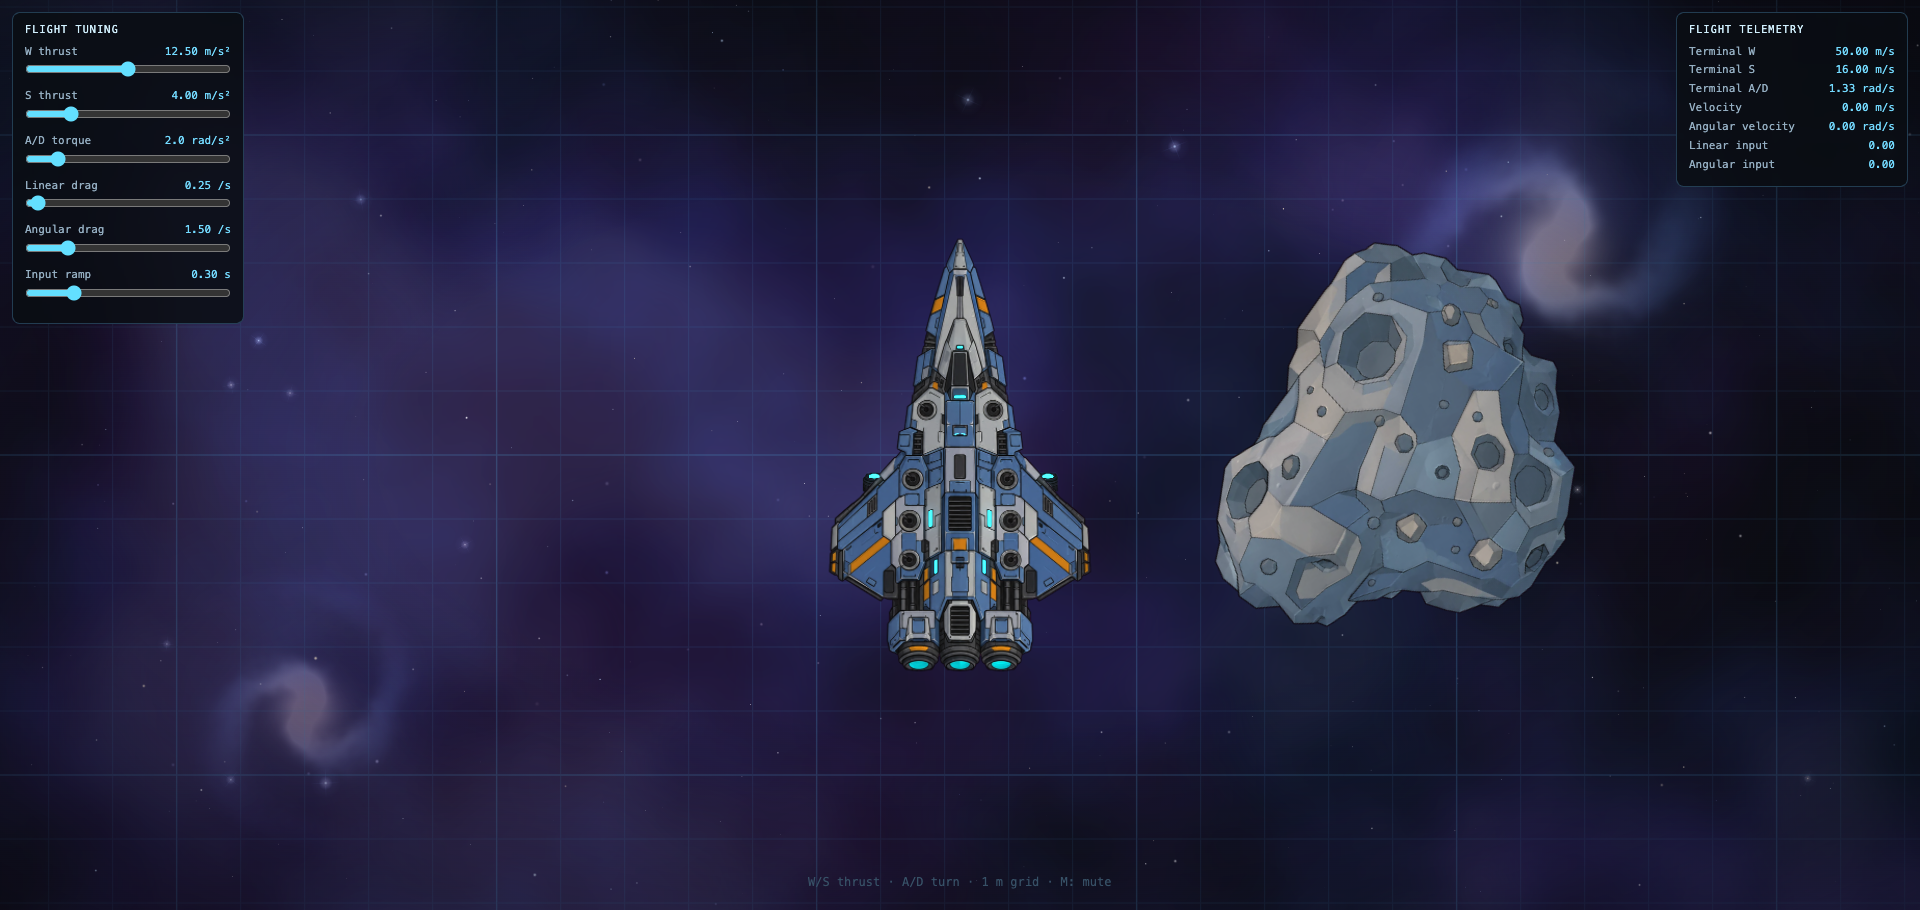
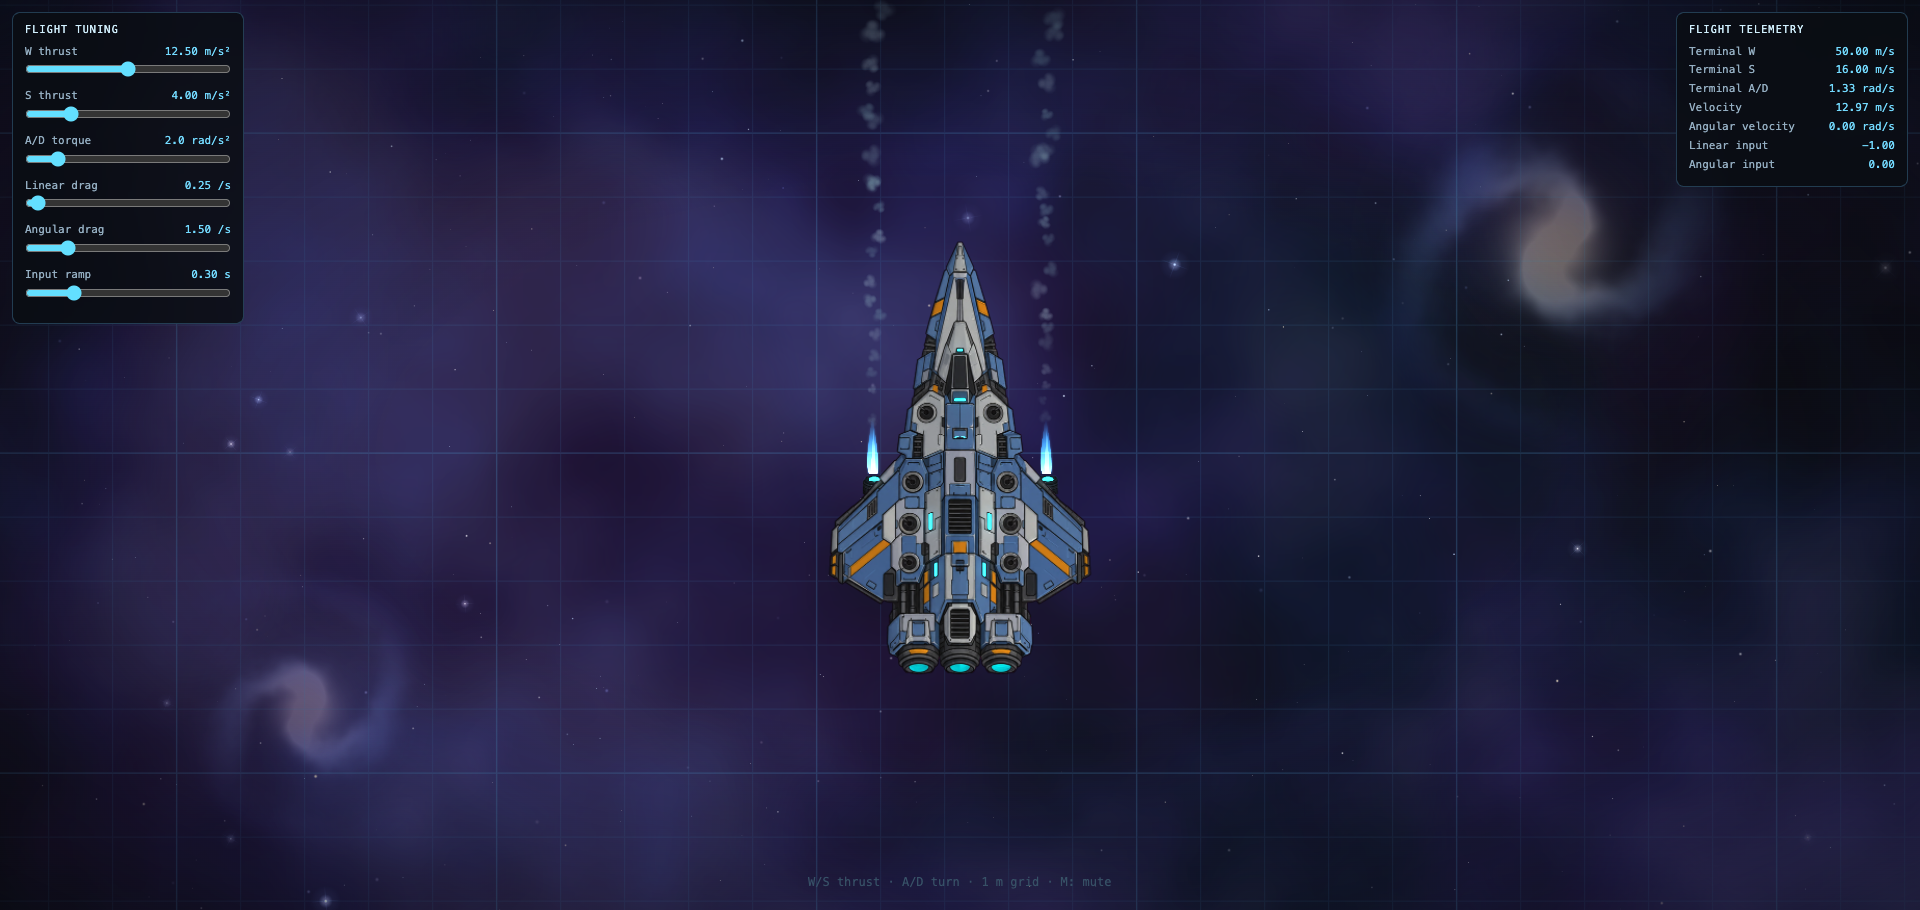
feat: emit flames and smoke from reverse engines

diff --git a/src/app/engine-exhaust.ts b/src/app/engine-exhaust.ts
@@ -6,6 +6,12 @@ const ENGINE_Y_OFFSET = 410;
 const FLAME_WIDTH = 44;
 export const FLAME_LOCAL_LENGTH = 190;
 const FLAME_BASE_HEIGHT = FLAME_LOCAL_LENGTH;
+
+// Baked reverse-engine copies: x ±167, y +50, 0.58× scale, rotated 180°.
+const REVERSE_ENGINE_X_OFFSETS = [-167, 167] as const;
+const REVERSE_ENGINE_SCALE = 0.58;
+const REVERSE_FLAME_BASE_Y = 31;
+const REVERSE_FLAME_LOCAL_LENGTH = FLAME_BASE_HEIGHT * REVERSE_ENGINE_SCALE;
 const SMOKE_LIFETIME = 10;
 const SMOKE_POOL_SIZE = 720;
 const SMOKE_TEXTURE_SIZE = 128;
@@ -30,6 +36,8 @@ interface ExhaustFrame {
   height: number;
   /** Ramped linear input magnitude, 0..1. */
   thrust: number;
+  /** S/reverse thrust is active. */
+  reverse: boolean;
   shipVx: number;
   shipVy: number;
   dt: number;
@@ -157,29 +165,45 @@ export function createEngineExhaust(): EngineExhaust {
     });
   }
 
+  const reverseFlameSprites = REVERSE_ENGINE_X_OFFSETS.map((offset) => {
+    const sprite = new Sprite({ texture: flameTexture, anchor: { x: 0.5, y: 0 } });
+    sprite.x = offset;
+    sprite.y = REVERSE_FLAME_BASE_Y;
+    sprite.rotation = Math.PI;
+    sprite.width = FLAME_WIDTH * REVERSE_ENGINE_SCALE;
+    sprite.height = REVERSE_FLAME_LOCAL_LENGTH;
+    sprite.blendMode = 'add';
+    flames.addChild(sprite);
+    return sprite;
+  });
+
   const flameLengths = ENGINE_X_OFFSETS.map(() => FLAME_BASE_HEIGHT);
+  const reverseFlameLengths = REVERSE_ENGINE_X_OFFSETS.map(() => REVERSE_FLAME_LOCAL_LENGTH);
   const rng = createRng(0x51ed_270b ^ 0x9e37_79b9);
   let smokeAccumulator = 0;
   let nextEngine = 0;
 
-  const spawnSmoke = (engineIndex: number, frame: ExhaustFrame): void => {
+  const spawnSmoke = (
+    localX: number,
+    localTipY: number,
+    exhaustX: number,
+    exhaustY: number,
+    frame: ExhaustFrame,
+    sizeScale: number,
+  ): void => {
     const particle = particles.find((candidate) => !candidate.active);
     if (!particle) return;
 
-    const localX = ENGINE_X_OFFSETS[engineIndex]!;
-    const localY = ENGINE_Y_OFFSET + flameLengths[engineIndex]!;
     const cos = Math.cos(frame.rotation);
     const sin = Math.sin(frame.rotation);
-    const worldX = frame.shipWorldX + (localX * cos - localY * sin) * frame.shipBaseScale;
-    const worldY = frame.shipWorldY + (localX * sin + localY * cos) * frame.shipBaseScale;
-    const backX = -sin;
-    const backY = cos;
+    const worldX = frame.shipWorldX + (localX * cos - localTipY * sin) * frame.shipBaseScale;
+    const worldY = frame.shipWorldY + (localX * sin + localTipY * cos) * frame.shipBaseScale;
 
     particle.active = true;
     particle.life = SMOKE_LIFETIME;
     particle.maxLife = SMOKE_LIFETIME;
-    particle.size = randomRange(rng, 16, 32);
-    particle.growth = randomRange(rng, 10, 22);
+    particle.size = randomRange(rng, 16, 32) * sizeScale;
+    particle.growth = randomRange(rng, 10, 22) * sizeScale;
     particle.baseAlpha = randomRange(rng, 0.3, 0.48);
     particle.rotationSpeed = randomRange(rng, -0.18, 0.18);
     particle.sprite.position.set(
@@ -193,9 +217,9 @@ export function createEngineExhaust(): EngineExhaust {
     particle.sprite.scale.set(scale);
     particle.sprite.visible = true;
     particle.vx =
-      frame.shipVx * 0.12 + backX * randomRange(rng, 18, 62) + randomRange(rng, -18, 18);
+      frame.shipVx * 0.55 + exhaustX * randomRange(rng, 12, 38) + randomRange(rng, -14, 14);
     particle.vy =
-      frame.shipVy * 0.12 + backY * randomRange(rng, 18, 62) + randomRange(rng, -18, 18);
+      frame.shipVy * 0.55 + exhaustY * randomRange(rng, 12, 38) + randomRange(rng, -14, 14);
   };
 
   return {
@@ -207,6 +231,9 @@ export function createEngineExhaust(): EngineExhaust {
       flames.scale.set(frame.shipScale);
 
       const thrust = Math.max(0, Math.min(1, frame.thrust));
+      const mainActive = !frame.reverse && thrust > 0.02;
+      const reverseActive = frame.reverse && thrust > 0.02;
+
       for (let index = 0; index < flameSprites.length; index += 1) {
         const sprite = flameSprites[index]!;
         const flicker =
@@ -216,7 +243,19 @@ export function createEngineExhaust(): EngineExhaust {
         const length = FLAME_BASE_HEIGHT * flicker * (0.45 + 0.55 * thrust);
         flameLengths[index] = length;
         sprite.height = length;
-        sprite.alpha = thrust > 0.02 ? 0.45 + 0.55 * thrust : 0;
+        sprite.alpha = mainActive ? 0.45 + 0.55 * thrust : 0;
+      }
+
+      for (let index = 0; index < reverseFlameSprites.length; index += 1) {
+        const sprite = reverseFlameSprites[index]!;
+        const flicker =
+          0.94 +
+          0.05 * Math.sin(frame.now * 74 + index * 1.3) +
+          0.02 * Math.sin(frame.now * 121 + index * 2.7);
+        const length = REVERSE_FLAME_LOCAL_LENGTH * flicker * (0.45 + 0.55 * thrust);
+        reverseFlameLengths[index] = length;
+        sprite.height = length;
+        sprite.alpha = reverseActive ? 0.45 + 0.55 * thrust : 0;
       }
 
       smoke.position.set(
@@ -227,12 +266,32 @@ export function createEngineExhaust(): EngineExhaust {
 
       // Smoke is only produced while the engine has power. Old puffs keep
       // living for their 10 s lifetime, so cutting power stops new emission but
-      // leaves the previous trail to fade.
-      if (thrust > 0.02 && frame.dt > 0) {
-        smokeAccumulator += frame.dt * thrust * 60;
+      // leaves the previous trail to fade. Reverse thrust emits from the two
+      // wing-mounted reverse nozzles instead of the main engines.
+      const active = mainActive || reverseActive;
+      if (active && frame.dt > 0) {
+        smokeAccumulator += frame.dt * thrust * (frame.reverse ? 45 : 60);
+        const cos = Math.cos(frame.rotation);
+        const sin = Math.sin(frame.rotation);
+        const emitterCount = frame.reverse
+          ? REVERSE_ENGINE_X_OFFSETS.length
+          : ENGINE_X_OFFSETS.length;
+
         while (smokeAccumulator >= 1) {
-          spawnSmoke(nextEngine, frame);
-          nextEngine = (nextEngine + 1) % ENGINE_X_OFFSETS.length;
+          if (frame.reverse) {
+            const index = nextEngine % REVERSE_ENGINE_X_OFFSETS.length;
+            const localX = REVERSE_ENGINE_X_OFFSETS[index]!;
+            const localTipY = REVERSE_FLAME_BASE_Y - reverseFlameLengths[index]!;
+            // The reverse flames point forward: local (0, -1).
+            spawnSmoke(localX, localTipY, sin, -cos, frame, REVERSE_ENGINE_SCALE);
+          } else {
+            const index = nextEngine % ENGINE_X_OFFSETS.length;
+            const localX = ENGINE_X_OFFSETS[index]!;
+            const localTipY = ENGINE_Y_OFFSET + flameLengths[index]!;
+            // The main flames point backward: local (0, +1).
+            spawnSmoke(localX, localTipY, -sin, cos, frame, 1);
+          }
+          nextEngine = (nextEngine + 1) % emitterCount;
           smokeAccumulator -= 1;
         }
       }

diff --git a/src/app/lighting-scene.ts b/src/app/lighting-scene.ts
@@ -186,6 +186,7 @@ export async function createScene(app: Application): Promise<Scene> {
       width,
       height,
       thrust: Math.abs(flight.linearInput),
+      reverse: flight.linearInput < -0.02,
       shipVx: flight.vx * PIXELS_PER_METER,
       shipVy: flight.vy * PIXELS_PER_METER,
       dt: deltaSeconds,

diff --git a/AGENTS.md b/AGENTS.md
@@ -57,8 +57,9 @@ behaviour, also run `pnpm browser:inspect` and check the screenshot.
 - `src/app/world-scale.ts` — `PIXELS_PER_METER = 64`; all flight physics is in metres.
 - `src/app/ground-grid.ts` — screen-space 1 m × 1 m grid fixed to the near dust layer
   (64 world px per metre; major lines every 5 m).
-- `src/app/engine-exhaust.ts` — three cyan cone-flame sprites plus dense dust-world smoke
-  particles emitted from the cone tips only while engine power is on; old puffs fade over 10 s.
+- `src/app/engine-exhaust.ts` — three main cone flames plus two reverse-engine flames from the
+  baked wing nozzles; dense dust-world smoke leaves the active cone tips only while engine power
+  is on; old puffs fade over 10 s.
 - `src/app/lit-sprite.ts` — custom normal-map Mesh shader (directional light, emissive/glow).
 - `src/app/background.ts` — layered procedural background (nebulas, galaxies, stars, flares)
   and the smoothed camera that follows the ship.
